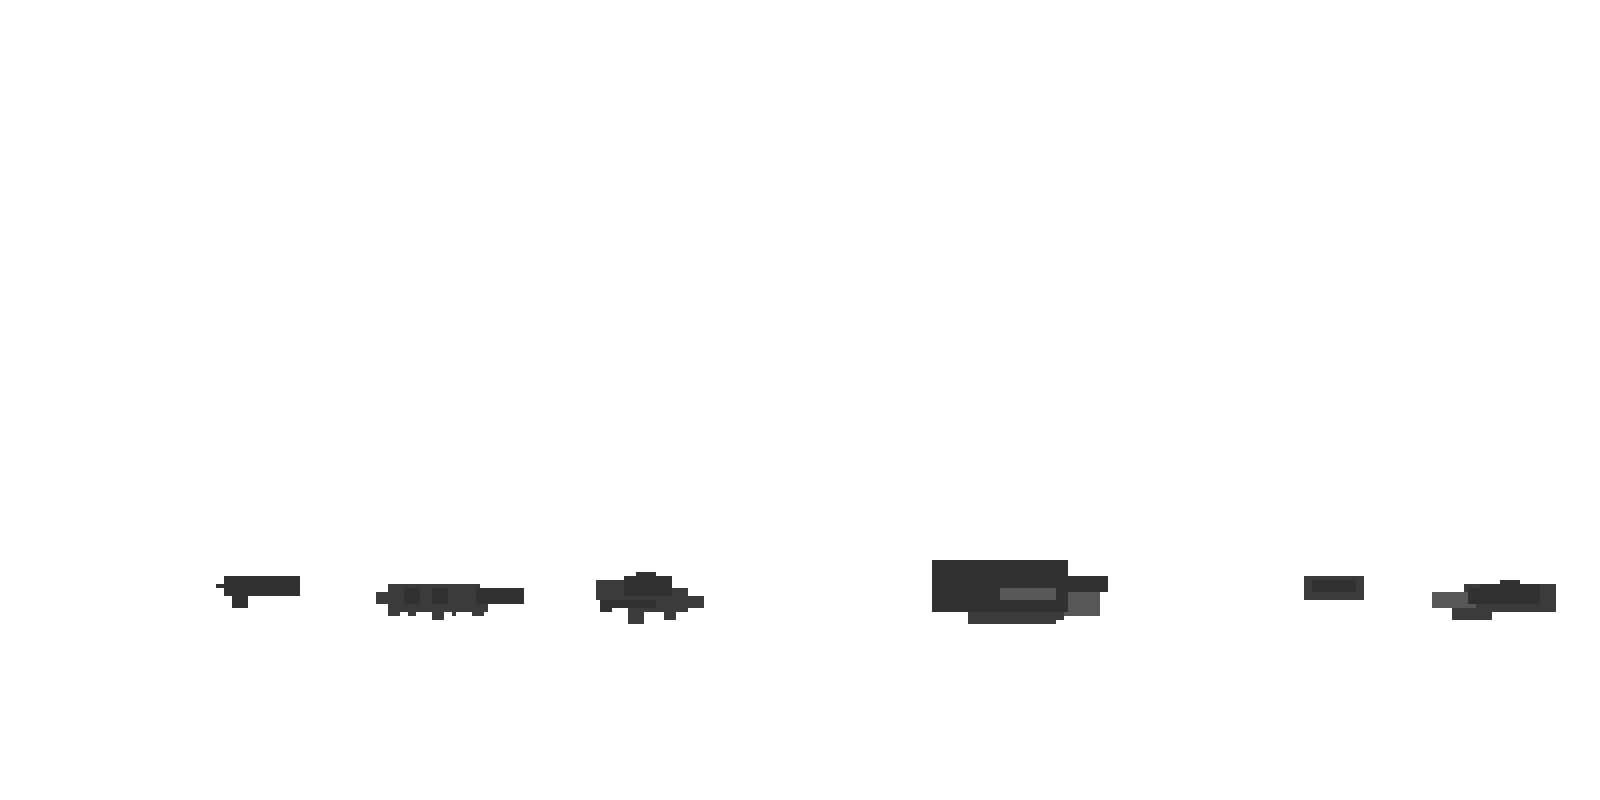
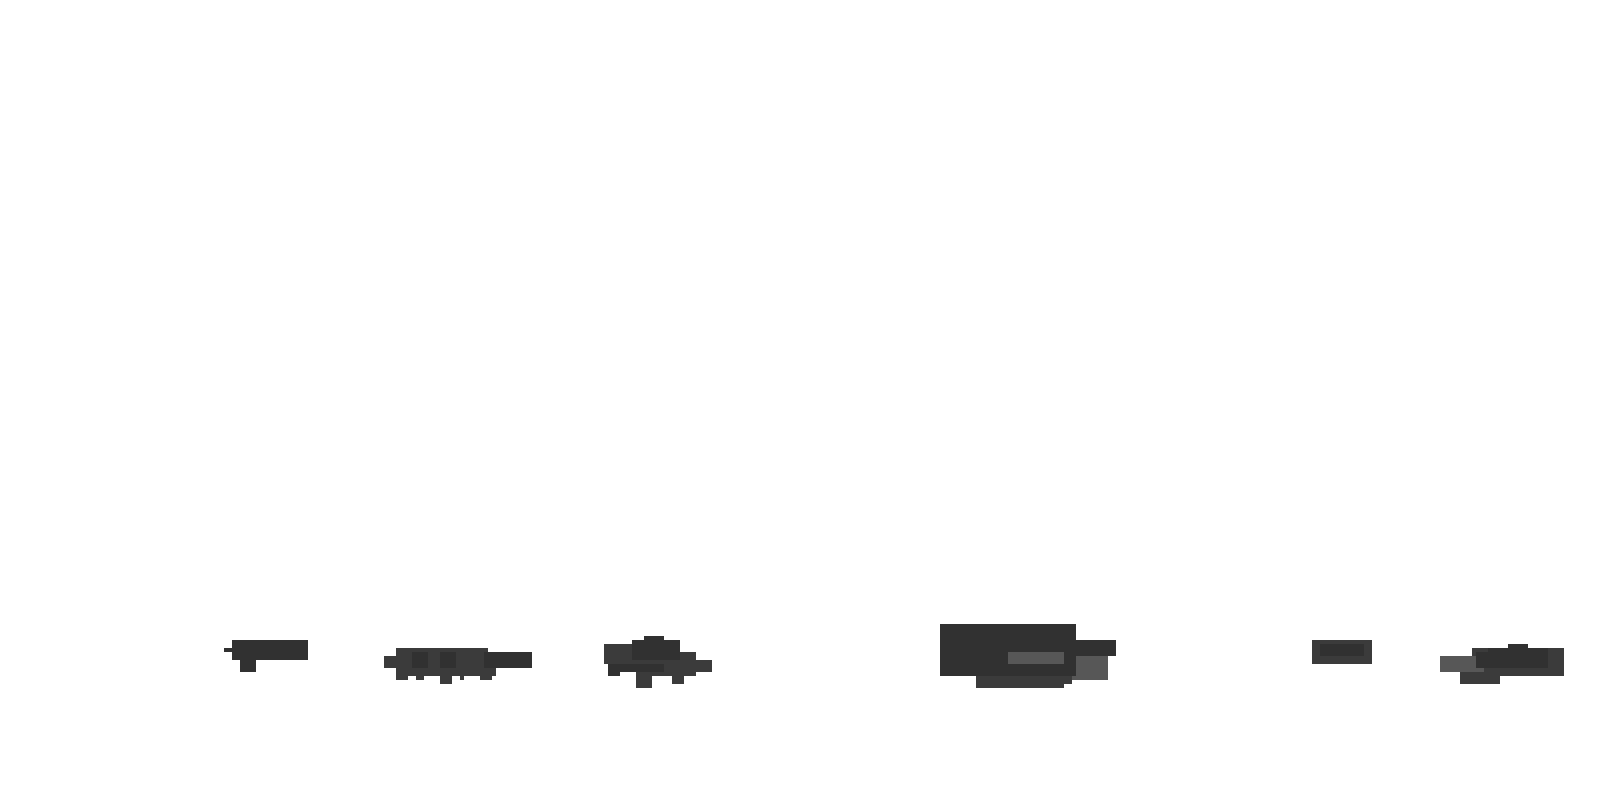
Move closest highway lower so its less distracting. Straighten out ship take off.

diff --git a/public/js/SceneManager.js b/public/js/SceneManager.js
@@ -59,9 +59,9 @@ class SceneManager2 {
   init() {
     this.buildLevels();
     document.getElementById("formOverlay").style.display = "none";
-    // this.startOpeningScene();
+    this.startOpeningScene();
     /* skip intro stuff and go strait to the level */
-     this.startLevelScene();
+     // this.startLevelScene();
     // document.getElementById("formOverlay").style.display = "none"; // hide login if not hid in css (curently is)
   }
 
@@ -366,7 +366,7 @@ class SceneManager2 {
       // this.sceneEntities.pop(); // remove previous title animation
       this.camera.x = 1400;
       this.sceneEntities.push(new ParallaxAnimatedBackground(this.game, this,
-        new Animation(this.game.assetManager.getAsset('../img/ship take off.png'), 0, 0, 600, 600, .18, 33, false, false, 1.5),
+        new Animation(this.game.assetManager.getAsset('../img/ship take off.png'), 0, 0, 600, 600, .18, 38, false, false, 1.5),
         1, 800, 470, -150));
       this.sceneEntities.push(new Overlay(this.game, true, smc.OPENING_OVERLAY_TIME));
     } else if (this.sequence == 4) {
